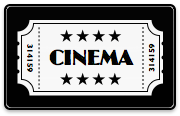
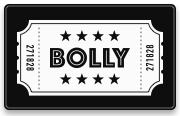
feat: new BOLLY ticket thumbnail
Replace the CINEMA ticket with a redrawn one that keeps the shape of the
original thumbnail, reads BOLLY, and carries Euler's number (271828) on both
stubs, an answer to the pi (314159) on the SaveHollywood ticket.

The image is drawn by design/thumbnail.swift, so both sizes can be regenerated.

diff --git a/design/thumbnail.swift b/design/thumbnail.swift
@@ -1,0 +1,168 @@
+// Draws the SaveBollywood thumbnail (a cinema ticket reading "BOLLY").
+// The stubs carry Euler's number (271828), an answer to the pi (314159) on the original SaveHollywood ticket.
+// Usage: swift thumbnail.swift <scale> <output.png>
+
+import AppKit
+import CoreText
+
+let args = CommandLine.arguments
+let scale = args.count > 1 ? CGFloat(Double(args[1]) ?? 1) : 1
+let output = args.count > 2 ? args[2] : "thumbnail.png"
+let ticketNumber = "271828"
+
+let size = CGSize(width: 90, height: 58)
+
+let rep = NSBitmapImageRep(bitmapDataPlanes: nil, pixelsWide: Int(size.width * scale), pixelsHigh: Int(size.height * scale),
+                           bitsPerSample: 8, samplesPerPixel: 4, hasAlpha: true, isPlanar: false,
+                           colorSpaceName: .deviceRGB, bytesPerRow: 0, bitsPerPixel: 0)!
+rep.size = size
+NSGraphicsContext.current = NSGraphicsContext(bitmapImageRep: rep)
+let ctx = NSGraphicsContext.current!.cgContext
+
+let black = CGColor(gray: 0.05, alpha: 1)
+let white = CGColor(gray: 0.98, alpha: 1)
+
+// Path of a string set in a font, centered on a point
+
+func textPath(_ string: String, fontName: String, fontSize: CGFloat, tracking: CGFloat = 0) -> CGPath {
+    let font = CTFontCreateWithName(fontName as CFString, fontSize, nil)
+    let attributed = NSAttributedString(string: string, attributes: [.font: font, .kern: tracking])
+    let line = CTLineCreateWithAttributedString(attributed)
+    let path = CGMutablePath()
+    for run in CTLineGetGlyphRuns(line) as! [CTRun] {
+        let runFont = (CTRunGetAttributes(run) as NSDictionary)[kCTFontAttributeName as String] as! CTFont
+        let count = CTRunGetGlyphCount(run)
+        var glyphs = [CGGlyph](repeating: 0, count: count)
+        var positions = [CGPoint](repeating: .zero, count: count)
+        CTRunGetGlyphs(run, CFRange(location: 0, length: count), &glyphs)
+        CTRunGetPositions(run, CFRange(location: 0, length: count), &positions)
+        for i in 0..<count {
+            if let glyphPath = CTFontCreatePathForGlyph(runFont, glyphs[i], nil) {
+                path.addPath(glyphPath, transform: CGAffineTransform(translationX: positions[i].x, y: positions[i].y))
+            }
+        }
+    }
+    return path
+}
+
+func centered(_ path: CGPath, at center: CGPoint, maxWidth: CGFloat? = nil, rotation: CGFloat = 0) -> CGPath {
+    let box = path.boundingBoxOfPath
+    var factor: CGFloat = 1
+    if let maxWidth = maxWidth, box.width > maxWidth { factor = maxWidth / box.width }
+    var transform = CGAffineTransform(translationX: center.x, y: center.y)
+        .rotated(by: rotation)
+        .scaledBy(x: factor, y: factor)
+        .translatedBy(x: -box.midX, y: -box.midY)
+    return path.copy(using: &transform)!
+}
+
+func star(center: CGPoint, radius: CGFloat) -> CGPath {
+    let path = CGMutablePath()
+    for i in 0..<10 {
+        let r = i % 2 == 0 ? radius : radius * 0.4
+        let angle = CGFloat.pi / 2 + CGFloat(i) * CGFloat.pi / 5
+        let point = CGPoint(x: center.x + r * cos(angle), y: center.y + r * sin(angle))
+        if i == 0 { path.move(to: point) } else { path.addLine(to: point) }
+    }
+    path.closeSubpath()
+    return path
+}
+
+// The card and the ticket keep the shape of the original SaveHollywood thumbnail
+
+// Card, with a soft shadow and a thin light line inside
+
+let card = CGRect(x: 2, y: 3, width: 86, height: 53)
+
+ctx.saveGState()
+ctx.setShadow(offset: CGSize(width: 0, height: -1 * scale), blur: 1.5 * scale, color: CGColor(gray: 0, alpha: 0.35))
+ctx.addPath(CGPath(roundedRect: card, cornerWidth: 2.5, cornerHeight: 2.5, transform: nil))
+ctx.setFillColor(black)
+ctx.fillPath()
+ctx.restoreGState()
+
+ctx.addPath(CGPath(roundedRect: card.insetBy(dx: 1, dy: 1), cornerWidth: 1.8, cornerHeight: 1.8, transform: nil))
+ctx.setStrokeColor(CGColor(gray: 0.6, alpha: 1))
+ctx.setLineWidth(0.3)
+ctx.strokePath()
+
+// Ticket: concave corners, and small notches along the short sides
+
+let ticket = CGRect(x: 8.5, y: 10.2, width: 73, height: 37.8)
+let cornerRadius: CGFloat = 6
+
+func ticketPath(inset d: CGFloat, notches: [CGFloat], notchRadius r: CGFloat) -> CGPath {
+    let x0 = ticket.minX, x1 = ticket.maxX, y0 = ticket.minY, y1 = ticket.maxY
+    let rho = d == 0 ? cornerRadius : cornerRadius + d * 0.8
+    let a = d == 0 ? 0 : asin(d / rho)
+    let reach = (rho * rho - d * d).squareRoot()
+    let path = CGMutablePath()
+
+    path.move(to: CGPoint(x: x0 + reach, y: y1 - d))
+    path.addLine(to: CGPoint(x: x1 - reach, y: y1 - d))
+    path.addArc(center: CGPoint(x: x1, y: y1), radius: rho, startAngle: .pi + a, endAngle: 1.5 * .pi - a, clockwise: false)
+    for y in notches.sorted(by: >) {
+        path.addLine(to: CGPoint(x: x1 - d, y: y + r))
+        path.addArc(center: CGPoint(x: x1 - d, y: y), radius: r, startAngle: 0.5 * .pi, endAngle: 1.5 * .pi, clockwise: false)
+    }
+    path.addLine(to: CGPoint(x: x1 - d, y: y0 + reach))
+    path.addArc(center: CGPoint(x: x1, y: y0), radius: rho, startAngle: 0.5 * .pi + a, endAngle: .pi - a, clockwise: false)
+    path.addLine(to: CGPoint(x: x0 + reach, y: y0 + d))
+    path.addArc(center: CGPoint(x: x0, y: y0), radius: rho, startAngle: a, endAngle: 0.5 * .pi - a, clockwise: false)
+    for y in notches.sorted(by: <) {
+        path.addLine(to: CGPoint(x: x0 + d, y: y - r))
+        path.addArc(center: CGPoint(x: x0 + d, y: y), radius: r, startAngle: 1.5 * .pi, endAngle: 2.5 * .pi, clockwise: false)
+    }
+    path.addLine(to: CGPoint(x: x0 + d, y: y1 - reach))
+    path.addArc(center: CGPoint(x: x0, y: y1), radius: rho, startAngle: 1.5 * .pi + a, endAngle: 2 * .pi - a, clockwise: false)
+    path.closeSubpath()
+    return path
+}
+
+ctx.addPath(ticketPath(inset: 0, notches: [ticket.midY - 7, ticket.midY, ticket.midY + 7], notchRadius: 1))
+ctx.setFillColor(white)
+ctx.fillPath()
+
+ctx.addPath(ticketPath(inset: 1.8, notches: [], notchRadius: 0))
+ctx.setStrokeColor(black)
+ctx.setLineWidth(0.45)
+ctx.strokePath()
+
+// Perforations: two columns of grey dots
+
+let perforationOffset: CGFloat = 11
+ctx.setFillColor(CGColor(gray: 0.5, alpha: 1))
+for x in [ticket.minX + perforationOffset, ticket.maxX - perforationOffset] {
+    var y = ticket.minY + 3.6
+    while y <= ticket.maxY - 3.6 {
+        ctx.fill(CGRect(x: x - 0.4, y: y - 0.4, width: 0.8, height: 0.8))
+        y += 2
+    }
+}
+
+// Ticket number on both stubs, the top of the digits towards the middle
+
+ctx.setFillColor(black)
+ctx.addPath(centered(textPath(ticketNumber, fontName: "DINCondensed-Bold", fontSize: 5.2, tracking: 0.3),
+                     at: CGPoint(x: ticket.minX + 6.6, y: ticket.midY), rotation: -.pi / 2))
+ctx.addPath(centered(textPath(ticketNumber, fontName: "DINCondensed-Bold", fontSize: 5.2, tracking: 0.3),
+                     at: CGPoint(x: ticket.maxX - 6.6, y: ticket.midY), rotation: .pi / 2))
+ctx.fillPath()
+
+// Stars
+
+for row in [ticket.midY + 10.8, ticket.midY - 10.8] {
+    for i in 0..<4 {
+        ctx.addPath(star(center: CGPoint(x: ticket.midX + (CGFloat(i) - 1.5) * 8.1, y: row), radius: 3.1))
+    }
+}
+ctx.fillPath()
+
+// BOLLY
+
+let word = centered(textPath("BOLLY", fontName: "Phosphate-Inline", fontSize: 15, tracking: 0.4), at: CGPoint(x: ticket.midX, y: ticket.midY), maxWidth: 40)
+ctx.addPath(word)
+ctx.fillPath()
+
+NSGraphicsContext.current = nil
+try! rep.representation(using: .png, properties: [:])!.write(to: URL(fileURLWithPath: output))

diff --git a/design/README.md b/design/README.md
@@ -1,0 +1,9 @@
+# Design
+
+- `thumbnail.swift` draws the screen saver thumbnail. Regenerate both sizes with:
+
+      swift design/thumbnail.swift 1 SaveBollywood/thumbnail.png
+      swift design/thumbnail.swift 2 SaveBollywood/thumbnail@2x.png
+
+  It needs the Phosphate and DIN Condensed fonts that ship with macOS.
+- `holly-ticket-reference.png` is a screenshot of the ticket on the original SaveHollywood web page, kept as a style reference.
